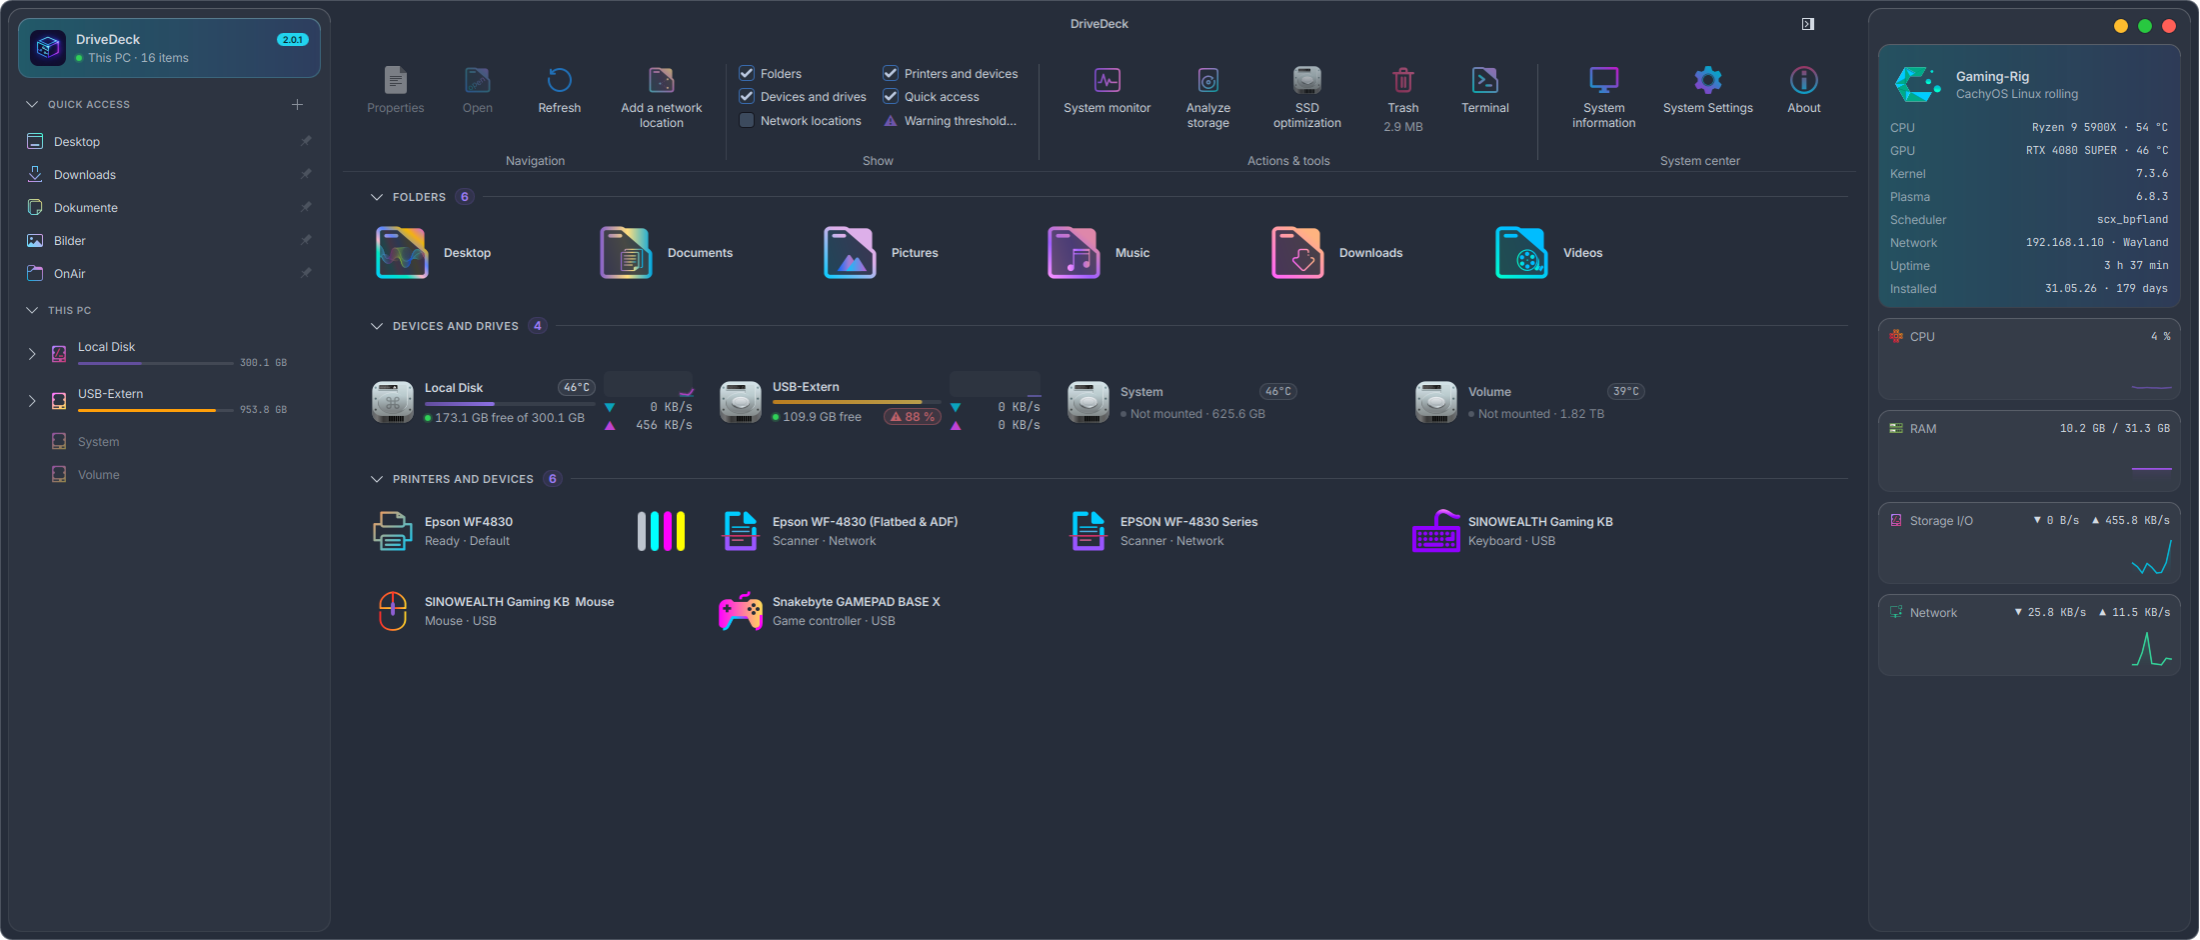
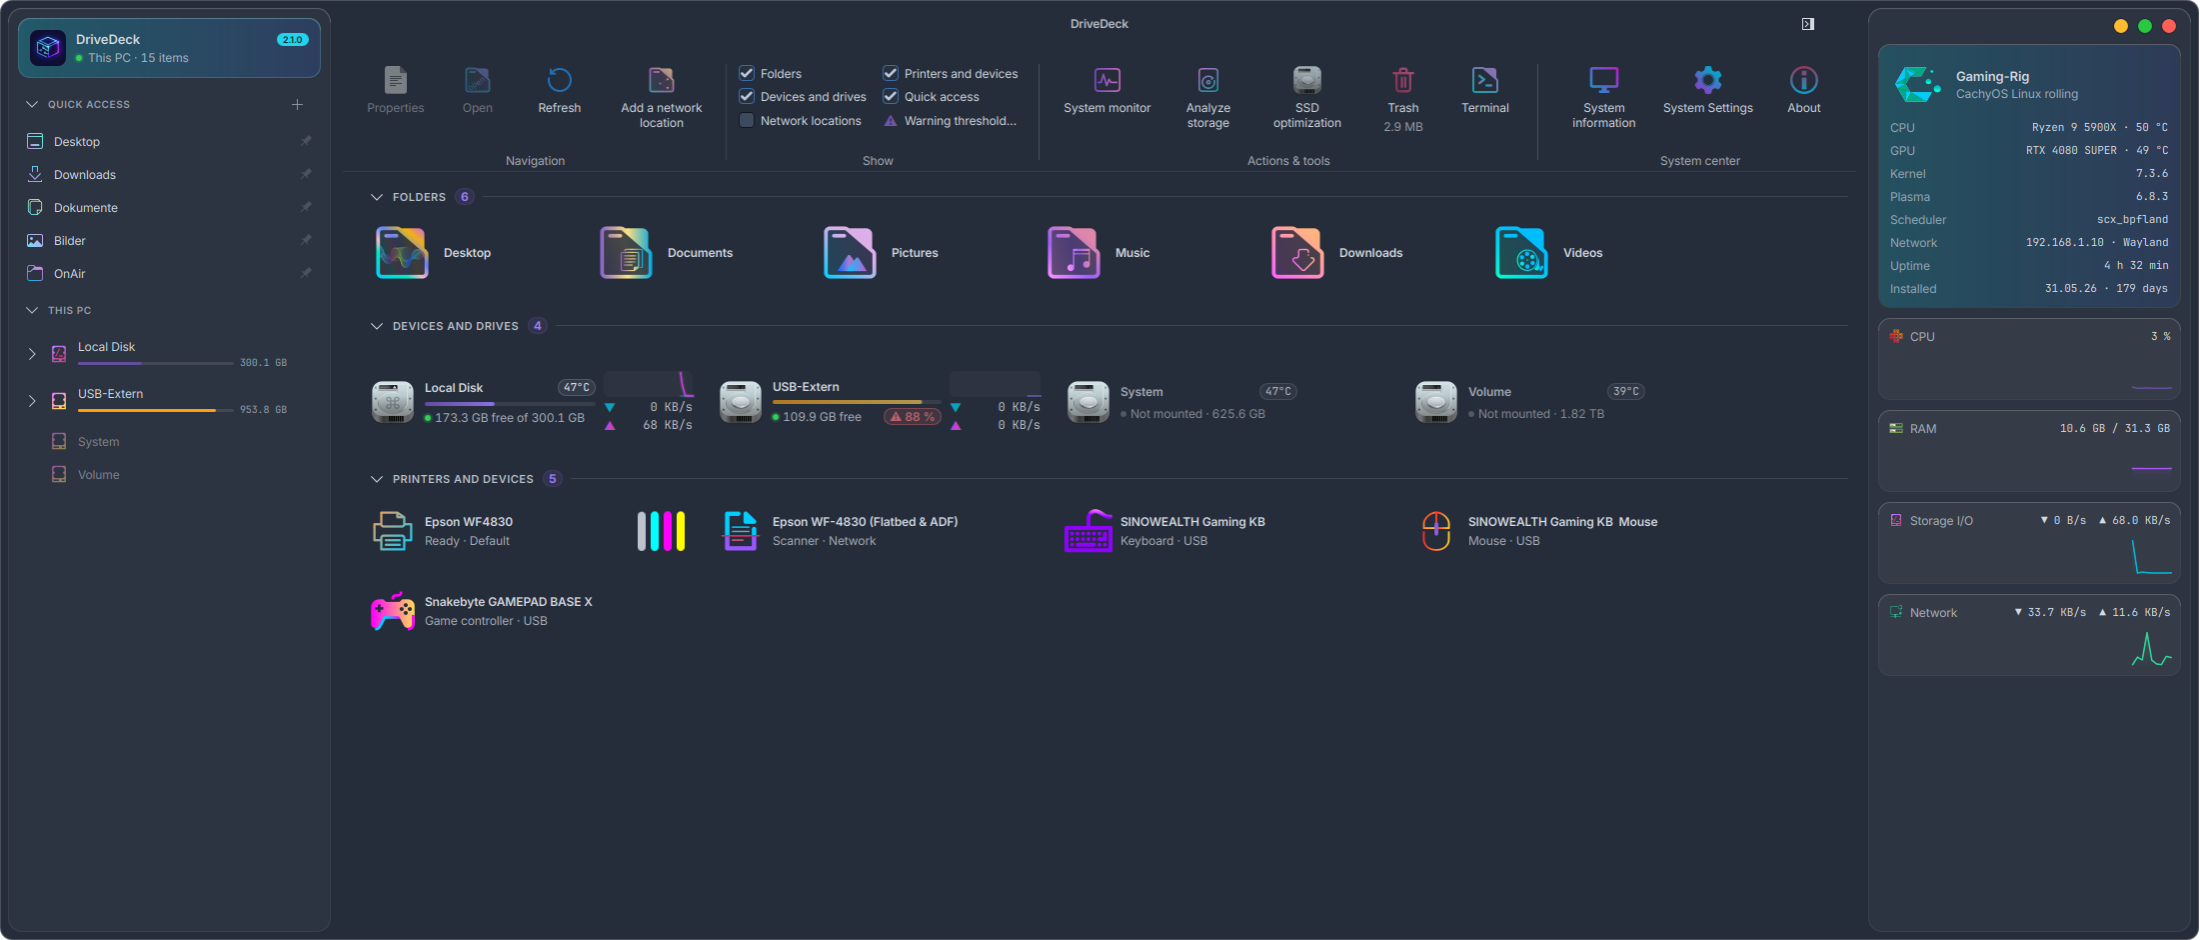
DriveDeck 2.1.0
Version 2.1.0, CHANGELOG dated, README and audits.md headings, new English preview.

diff --git a/drivedeck.py b/drivedeck.py
@@ -11169,7 +11169,7 @@ QQC2.ApplicationWindow {
 """
 
 
-APP_VERSION = '2.0.1'
+APP_VERSION = '2.1.0'
 APP_AUTEUR = """Original Copyright (C) 2026 naykkalak
 Modified and maintained by Christian (2026), with help from his son Leon"""
 APP_LICENCE = 'GPL-3.0-or-later'

diff --git a/CHANGELOG.md b/CHANGELOG.md
@@ -10,9 +10,9 @@ hidden and everything else works).
 
 ---
 
-## 2.1.0 – in progress
+## 2.1.0 – 2026-11-26
 
-Groundwork for 2.1.0: five non-destructive ideas from the upstream comparison with Fenestra This PC 2.1.1, built on DriveDeck's own architecture (background threads, lazy menus, inspector, keyboard chain, screen-reader names). The version number in `drivedeck.py` stays 2.0.1 until the release.
+Five non-destructive ideas from the upstream comparison with Fenestra This PC 2.1.1, built on DriveDeck's own architecture (background threads, lazy menus, inspector, keyboard chain, screen-reader names), and SMART for NVMe drives in USB enclosures.
 
 ### Added
 - **Compact toolbar (48 px).** When the fixed ribbon groups no longer fit into the middle column, the ribbon switches automatically to a centred toolbar with the same commands as icons (tooltip, screen-reader name, Tab chain, focus ring). *Show* (sections), the warning threshold and the toolbar choice are in a "…" menu built on first use. "Always use the compact toolbar" (in "…" or by right-clicking the toolbar) keeps it on wide windows too; the setting is saved. The width the ribbon needs is measured only while it is shown and applied after the current evaluation, so the switch cannot feed back into itself.
@@ -20,6 +20,7 @@ Groundwork for 2.1.0: five non-destructive ideas from the upstream comparison wi
 - **Live click mode.** A `QFileSystemWatcher` on `~/.config` and `kdeglobals` (KConfig replaces the file when saving) re-reads the single/double-click setting 300 ms after a change; only a changed `kdeglobals` triggers a read.
 
 ### Changed
+- **New preview** (`preview.png`, English, version 2.1.0; the IP address is a placeholder).
 - **Scanner duplicates merged by IP address or model.** The address comes from `ip=` (airscan), `http(s)://<address>` (eSCL) or `:net:<address>` (epson2 and others); the model is compared without its source list ("platen,adf") and "Series". The entry with a source list or an eSCL address wins, so the card reads "Epson WF-4830 (Flatbed & ADF)". Old duplicates in the scanner cache are merged on start. `epson2:net:` scanners count as network scanners.
 - **Wi-Fi printers are debounced:** offline only after three failed checks in a row; in between the card keeps its last ink levels.
 - **Ink names by partial match** ("photo black", "matte black", "light cyan", "light magenta", "black", "cyan", "magenta", "yellow", "gray"; "toner" is kept as a suffix), translated. **Low ink** is the printer's own `marker-low-levels` threshold or 10 % if it declares none; card pills, tooltip, inspector and dialog all use this one flag (2.0.1 used a fixed 15 % in the card).

diff --git a/README.md b/README.md
@@ -12,7 +12,7 @@ locations, printers and devices in one clean window, and it follows your Plasma 
 
 <p align="center"><img src="preview.png" alt="DriveDeck main window"></p>
 
-**Version 2.0.1** – feedback and bug reports are very welcome.
+**Version 2.1.0** – feedback and bug reports are very welcome.
 
 ---
 
@@ -67,7 +67,7 @@ small **live graph** of their read and write speed, and warn you when they are a
   main area (Shift+Tab backwards, Esc back to the main area); `Ctrl+I` shows or hides the inspector.
 - Works with light and dark Plasma colour schemes.
 
-### New in 2.1.0 (in progress)
+### New in 2.1.0
 
 - **Compact toolbar.** When the four ribbon groups do not fit between the side panels (about 2300 px window width with
   both panels in German, 2200 px in English), the ribbon becomes a centred 48 px toolbar with the same commands as icons,

diff --git a/audits.md b/audits.md
@@ -358,7 +358,7 @@ and that File Explorer and Kitty start.
 
 ---
 
-## 5m. Upstream cherry-picks for 2.1.0 (in progress)
+## 5m. Upstream cherry-picks (2.1.0)
 
 Five non-destructive ideas from the comparison with Fenestra This PC 2.1.1 (code was not copied; each is written for
 DriveDeck's architecture). Formatting, the surface scan and the 3-second disk refresh in the GUI thread were deliberately
@@ -386,7 +386,7 @@ have German entries (a scan of all `trad("…")` literals leaves only words that
 
 ---
 
-## 5n. SMART for NVMe drives in USB enclosures (2.1.0, in progress)
+## 5n. SMART for NVMe drives in USB enclosures (2.1.0)
 
 **Report (user):** Properties → SMART status of a FIKWOT FN501Pro 1 TB in a USB enclosure showed only "SMART support is:
 Unavailable - device lacks SMART capability."
